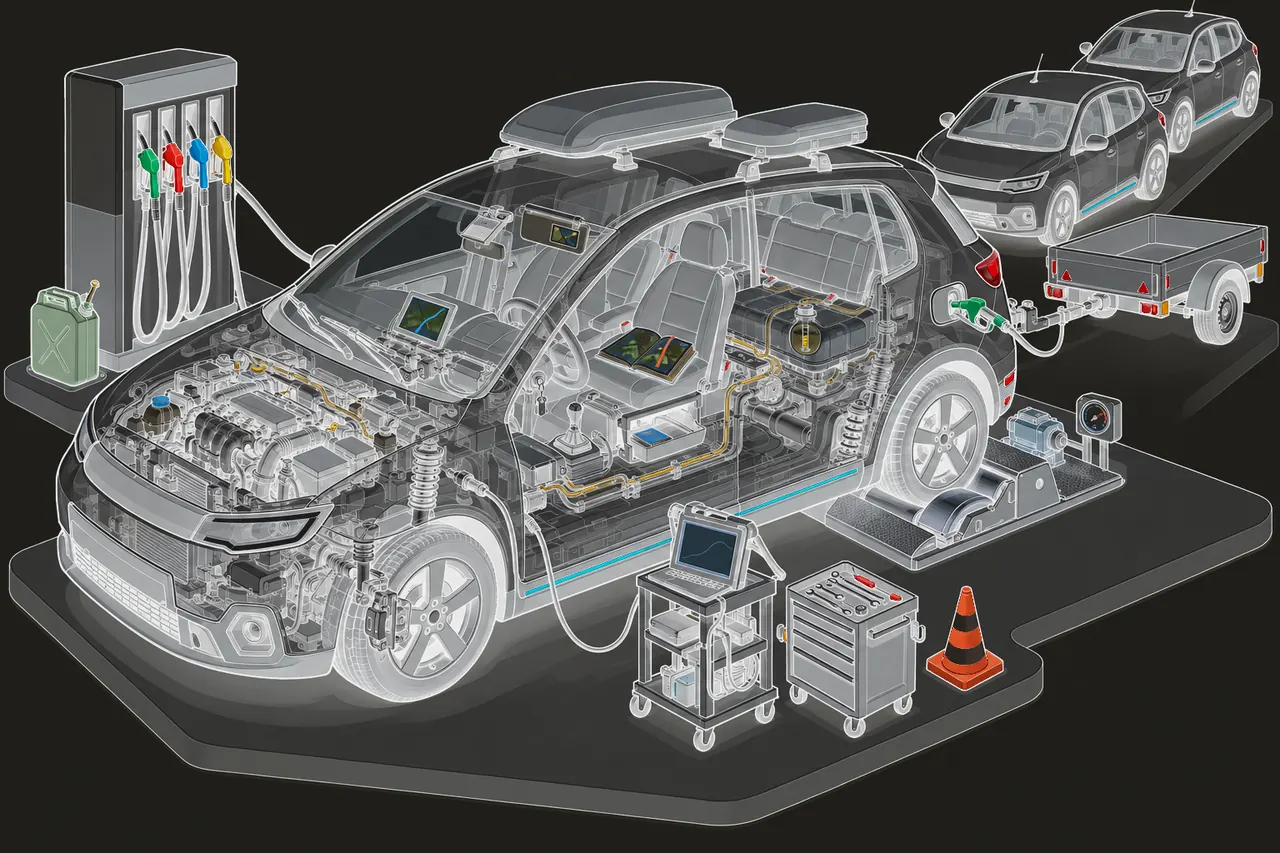
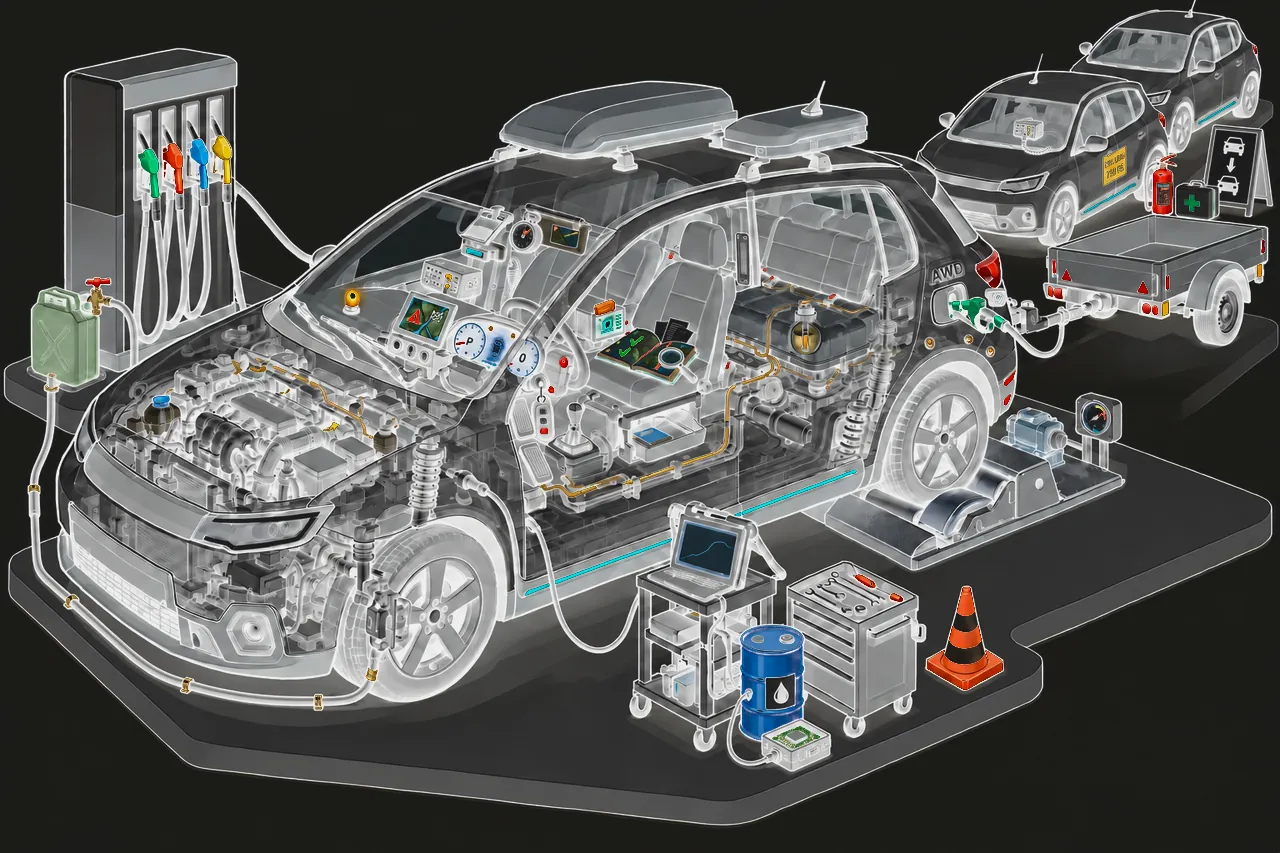
feat(assembly): дорисованы 26 деталей — зоны у 48 из 50, бортовой компьютер на картинке
Основа v2: четыре правки codex image_gen поверх hero.png («добавь X, остальное не трогай»).
Кадр перерисовывается целиком, но предметы остаются на местах (дрейф 1–4 % пикселей) —
прежние зоны держатся. Камера заднего вида перенесена из пятой правки маской с мягким краем:
та же правка вынесла органайзер из двери на тележку диагностики, её остальное отброшено.

- Дорисовано: весь бортовой компьютер (блок, картридж, приборный щиток, иммобилайзер,
  антенна), брелок, лампа идеи, VIN-табличка, шильдик AWD, педаль, обходной топливопровод,
  значок ошибки, флажок финиша, кнопки голоса, таймер, датчики парковки, камера, наклейка
  нагрузки, рация, огнетушитель с аптечкой, схема колонны, лупа, галочки, вкладыши, бочка
  присадок, блок чип-тюнинга.
- Без зоны (прожектор на корпус узла): органайзер в двери (не нарисован), закладка атласа
  (ленточку закрыли лупа и вкладыши).
- Зоны сверены контактным листом и крупным планом по каждой из 48; метки не ближе 22 px.
- Тёмная основа — тем же переворотом светлоты LAB; сайдкар происхождения hero-v2.json.
- Тест: пример ненарисованной детали — органайзер (00/u2) → корпус зажигания.

Changed region(s): [[0.0, 0.0, 1.0, 0.9449], [0.2812, 0.2438, 0.3125, 0.2743]]

diff --git a/LMS/tochka-sborki/web/packs/tochka-sborki/course/assembly-machine.data.ts b/LMS/tochka-sborki/web/packs/tochka-sborki/course/assembly-machine.data.ts
@@ -8,12 +8,12 @@ export const SHELLS: Record<string, Polygon> = {
   ignition: p([495,300],[560,290],[595,320],[590,380],[560,420],[525,418],[500,370]),
   garage: p([630,505],[760,495],[800,550],[930,580],[1008,660],[1000,700],[900,745],[790,760],[640,755],[625,600]),
   fuel: p([25,61],[177,42],[237,82],[240,350],[208,405],[104,425],[34,387]),
-  navigator: p([385,292],[452,282],[470,300],[465,352],[395,358],[383,335]),
+  navigator: p([383,288],[455,282],[470,300],[466,370],[388,372],[380,335]),
   glovebox: p([612,402],[700,398],[712,420],[706,465],[625,470],[610,440]),
   wipers: p([270,290],[330,250],[420,200],[510,195],[518,245],[470,290],[410,385],[380,388],[300,330]),
   hitch: p([925,265],[1000,262],[1045,205],[1180,200],[1270,215],[1270,350],[1200,352],[1050,342],[1000,340],[925,332]),
-  convoy: p([915,100],[980,45],[1075,30],[1110,0],[1245,0],[1262,40],[1262,110],[1170,155],[1165,200],[1050,203],[1040,240],[960,235],[915,160]),
-  atlas: p([598,345],[650,318],[708,330],[708,375],[660,392],[598,380]),
+  convoy: p([915,100],[980,45],[1075,30],[1110,0],[1245,0],[1265,40],[1272,120],[1276,212],[1140,220],[1050,205],[1040,240],[960,235],[915,160]),
+  atlas: p([598,345],[648,312],[700,310],[708,375],[660,392],[598,380]),
   dyno: p([835,445],[880,390],[1000,395],[1125,385],[1130,445],[1100,560],[950,575],[840,560]),
   computer: p([441,172],[557,142],[710,157],[835,225],[811,363],[690,398],[525,354],[449,284]),
 }
@@ -22,56 +22,106 @@ export const SHELLS: Record<string, Polygon> = {
 // Детали без зоны на основе нет: метки у неё нет, прожектор ложится на корпус её узла, подпись юнита не меняется.
 // Не ставить зону «примерно где-то здесь» — именно так «Разрез двигателя» подсвечивал заднее колесо.
 export const PARTS: Partial<Record<string, Polygon>> = {
-  'ignition.key': p([528,358],[552,356],[556,385],[552,415],[532,416],[526,388]),
-  'chassis.gearbox': p([553,402],[578,398],[596,420],[594,450],[560,452],[550,430]),
+  'ignition.fob': p([530,402],[555,400],[557,442],[533,444]),
+  'ignition.idea-lamp': p([340,288],[362,287],[364,314],[340,315]),
+  'ignition.key': p([530,375],[550,374],[552,400],[534,402]),
+  'ignition.vin-plate': p([733,230],[752,230],[753,284],[734,285]),
+  'chassis.trim-plate': p([928,260],[968,258],[970,287],[929,289]),
+  'chassis.pedal': p([520,445],[545,440],[552,480],[530,487],[518,470]),
+  'chassis.gearbox': p([560,400],[585,400],[598,430],[596,456],[552,456],[552,432]),
   'garage.obd-scanner': p([667,502],[752,500],[785,530],[778,598],[700,600],[667,585]),
-  'garage.tool-cart': p([787,563],[855,560],[920,592],[922,700],[853,740],[790,700]),
+  'garage.tool-cart': p([805,562],[855,560],[920,592],[922,700],[853,740],[808,720]),
   'garage.test-cone': p([958,585],[970,585],[1003,665],[1003,690],[965,700],[926,672]),
   'fuel.pump': p([65,55],[230,45],[238,60],[238,365],[105,372],[65,330]),
-  'fuel.canister': p([30,288],[95,280],[102,300],[100,385],[45,390],[30,375]),
-  'fuel.adapter': p([930,282],[962,280],[975,295],[1012,318],[1005,332],[965,325],[932,322]),
-  'navigator.route': p([392,295],[450,288],[460,300],[457,345],[398,350],[390,335]),
+  'fuel.bypass-line': p([85,276],[112,274],[118,300],[142,305],[142,362],[122,364],[118,316],[86,310]),
+  'fuel.canister': p([30,288],[84,282],[98,300],[100,385],[45,390],[30,375]),
+  'fuel.adapter': p([932,290],[960,290],[975,300],[1005,318],[1000,332],[965,328],[932,322]),
+  'navigator.route': p([392,293],[452,288],[460,298],[458,338],[398,341],[390,330]),
+  'navigator.voice-keys': p([388,342],[436,340],[440,352],[434,364],[392,365],[386,354]),
+  'navigator.warning': p([403,308],[425,307],[426,325],[404,326]),
+  'navigator.finish-flag': p([428,302],[447,301],[448,320],[429,321]),
   'glovebox.pocket-and-screen': p([620,412],[690,405],[700,420],[698,458],[628,462],[618,440]),
   'glovebox.service-book': p([632,423],[668,420],[675,430],[672,448],[635,450]),
-  'glovebox.visor-card': p([520,215],[575,212],[588,228],[580,253],[525,255],[518,235]),
-  'wipers.rain-sensor': p([458,210],[492,205],[510,220],[505,240],[470,245],[455,232]),
+  'glovebox.visor-card': p([545,218],[585,214],[592,228],[586,256],[548,258]),
+  'wipers.rain-sensor': p([458,210],[492,205],[505,218],[503,240],[470,245],[455,232]),
   'wipers.wiper-arms': p([295,297],[330,293],[405,350],[405,382],[380,380],[300,320]),
-  'hitch.socket': p([1008,300],[1035,298],[1052,308],[1050,330],[1015,333],[1005,318]),
+  'wipers.timer': p([508,216],[540,215],[543,250],[510,252]),
+  'hitch.socket': p([1012,300],[1035,298],[1052,308],[1050,330],[1015,333],[1010,318]),
+  'hitch.park-sensors': p([922,330],[1000,328],[1002,358],[925,360]),
   'hitch.roof-boxes': p([500,110],[560,88],[700,84],[860,95],[878,125],[840,160],[700,165],[560,165],[502,145]),
   'hitch.trailer': p([1045,215],[1180,210],[1268,225],[1268,320],[1250,345],[1200,345],[1090,330],[1045,300]),
-  'convoy.follower': p([1075,45],[1110,10],[1240,8],[1258,40],[1260,110],[1240,130],[1165,152],[1150,100],[1080,80]),
+  'hitch.rear-camera': p([984,286],[1008,285],[1009,306],[985,307]),
+  'convoy.load-sticker': p([1098,150],[1130,150],[1131,187],[1099,188]),
+  'convoy.radio': p([1010,115],[1048,114],[1050,152],[1012,154]),
+  'convoy.safety-kit': p([1143,150],[1222,152],[1222,220],[1144,220]),
+  'convoy.formation': p([1200,123],[1272,122],[1275,210],[1224,212],[1200,200]),
+  'convoy.follower': p([1075,45],[1110,10],[1240,8],[1258,40],[1260,110],[1240,122],[1165,148],[1150,100],[1080,80]),
   'atlas.book': p([602,350],[650,325],[700,335],[700,370],[660,383],[605,375]),
-  'atlas.bookmark': p([656,330],[668,328],[682,368],[670,372]),
+  'atlas.lens': p([657,345],[690,343],[698,380],[660,384]),
+  'atlas.check-marks': p([612,332],[646,330],[648,362],[613,364]),
+  'atlas.printouts': p([650,313],[692,311],[694,340],[652,342]),
   'dyno.engine-cutaway': p([100,400],[170,355],[300,345],[420,380],[470,420],[460,470],[330,505],[200,480],[110,450]),
+  'dyno.additive-barrel': p([740,625],[805,622],[808,738],[742,742]),
+  'dyno.tuning-chip': p([760,730],[830,728],[834,772],[762,774]),
   'dyno.small-engine': p([1005,408],[1040,402],[1068,420],[1066,462],[1030,468],[1003,450]),
   'dyno.gauge': p([1075,390],[1120,388],[1124,440],[1078,442]),
+  'computer.unit': p([590,315],[626,313],[628,342],[592,344]),
+  'computer.antenna': p([810,76],[830,74],[836,108],[812,112]),
+  'computer.cartridge': p([590,298],[618,297],[619,315],[591,316]),
+  'computer.immobilizer': p([550,348],[575,346],[580,372],[560,378],[548,365]),
+  'computer.dashboard': p([450,320],[545,318],[548,376],[452,378]),
 }
 
 export const SHELL_MARKERS: Record<string, Point> = {
-  chassis: [840,540], ignition: [575,350], garage: [720,700], fuel: [190,395], navigator: [455,290], glovebox: [620,458], wipers: [440,260], hitch: [1104,333], convoy: [1000,120], atlas: [700,340], dyno: [960,520], computer: [660,246],
+  chassis: [840,540], ignition: [520,330], garage: [720,700], fuel: [190,395], navigator: [462,355], glovebox: [620,458], wipers: [440,260], hitch: [1104,333], convoy: [1000,120], atlas: [700,340], dyno: [960,520], computer: [660,246],
 }
 export const PART_MARKERS: Record<string, Point> = {
-  'ignition.key': [541,386],
-  'chassis.gearbox': [572,425],
+  'ignition.fob': [544,422],
+  'ignition.idea-lamp': [352,301],
+  'ignition.key': [542,388],
+  'ignition.vin-plate': [743,257],
+  'chassis.trim-plate': [949,274],
+  'chassis.pedal': [533,464],
+  'chassis.gearbox': [574,429],
   'garage.obd-scanner': [725,552],
-  'garage.tool-cart': [854,642],
+  'garage.tool-cart': [860,646],
   'garage.test-cone': [971,650],
   'fuel.pump': [157,204],
-  'fuel.canister': [67,336],
-  'fuel.adapter': [969,308],
-  'navigator.route': [424,319],
+  'fuel.bypass-line': [130,335],
+  'fuel.canister': [64,337],
+  'fuel.adapter': [967,311],
+  'navigator.route': [398,300],
+  'navigator.voice-keys': [412,353],
+  'navigator.warning': [414,318],
+  'navigator.finish-flag': [440,308],
   'glovebox.pocket-and-screen': [688,415],
   'glovebox.service-book': [656,434],
-  'glovebox.visor-card': [551,233],
-  'wipers.rain-sensor': [482,225],
+  'glovebox.visor-card': [571,235],
+  'wipers.rain-sensor': [480,225],
   'wipers.wiper-arms': [352,337],
-  'hitch.socket': [1028,314],
+  'wipers.timer': [525,233],
+  'hitch.socket': [1029,314],
+  'hitch.park-sensors': [962,344],
   'hitch.roof-boxes': [678,126],
   'hitch.trailer': [1168,286],
-  'convoy.follower': [1175,75],
-  'atlas.book': [625,358],
-  'atlas.bookmark': [676,366],
+  'hitch.rear-camera': [996,296],
+  'convoy.load-sticker': [1114,169],
+  'convoy.radio': [1030,134],
+  'convoy.safety-kit': [1183,186],
+  'convoy.formation': [1234,173],
+  'convoy.follower': [1175,74],
+  'atlas.book': [612,368],
+  'atlas.lens': [676,363],
+  'atlas.check-marks': [630,347],
+  'atlas.printouts': [672,326],
   'dyno.engine-cutaway': [284,423],
+  'dyno.additive-barrel': [774,682],
+  'dyno.tuning-chip': [796,751],
   'dyno.small-engine': [1035,435],
   'dyno.gauge': [1099,415],
+  'computer.unit': [606,330],
+  'computer.antenna': [822,92],
+  'computer.cartridge': [600,306],
+  'computer.immobilizer': [563,362],
+  'computer.dashboard': [499,348],
 }

diff --git a/CLAUDE.md b/CLAUDE.md
@@ -219,10 +219,15 @@
   сгенерирована (codex image_gen) — подпись `MachineDef.credit` обязательна (тест). Прогресс — метки (серая — нет, акцент —
   пройдено), текущее — прожектор. Pack-машина импортирует только `@/lib/**` (не `components/`): `boundary.test.ts`.
 - Вес: тест рендера ≤ 300 КБ + postbuild `check-assembly-weight.mjs` (на основном сайте юниты за дверью → «не измерено в HTML»).
-- **Зона — только у нарисованного** (владелец 2026-10-14: «Разрез двигателя» подсвечивал заднее колесо). Генератор
-  нарисовал ~20 предметов из 50 деталей паспорта; зону в `PARTS` получает лишь деталь, которая реально есть на основе
-  (сейчас 23), остальным прожектор ставит корпус узла. Новую зону или новую основу принимать только контактным листом:
-  каждая зона с подписью поверх картинки, все кадры глазами — тесты контракта проверяют форму, а не то, что зона лежит на вещи.
+- **Зона — только у нарисованного** (владелец 2026-10-14: «Разрез двигателя» подсвечивал заднее колесо). Зону в `PARTS`
+  получает лишь деталь, которая реально есть на основе (сейчас 48 из 50; без зоны — органайзер в двери и закладка атласа),
+  остальным прожектор ставит корпус узла. Новую зону или новую основу принимать только контактным листом: каждая зона с
+  подписью поверх картинки, все кадры глазами, мелкие — крупным планом. Тесты контракта проверяют форму, а не то, что зона лежит на вещи.
+- **Дорисовка основы** (2026-10-14): `codex exec -i <основа.png>` с просьбой «добавь X, остальное не трогай» перерисовывает
+  кадр целиком, но предметы остаются на местах (дрейф 1–4 % пикселей, зоны держатся). Пачками по 5–8 предметов, в промпте —
+  явный список «MUST STAY UNCHANGED»: без него пачка заменила ящик бардачка и рычаг передач. Неудачный предмет не
+  переделывать всей пачкой — перенести удачный участок из другой правки маской с мягким краем. Исходник —
+  `.superpowers/assembly-car/hero-v2.png` (вне git), сайдкар — `docs/superpowers/specs/assets/assembly-car/hero-v2.json`.
 
 ## Gemini-Notebook слой (2026-08-04, спек `2026-08-04-notebook-module-design`)
 - **`/notebook`** (и `/en/notebook`, открыто, без почты) — «пакет тетрадки»: `lib/course/notebook-pack.ts` (паттерн `/try`: engine+data, `Bi{ru;en}` и resolvers) — 3 пака источников, PROMPT_KIT (каждый промпт ТРЕБУЕТ цитату — под тестом), VERIFY_CHECKLIST «где тетрадка врёт». В nav НЕ добавлен (шапка ужата); входы — модуль 09 и sitemap.
